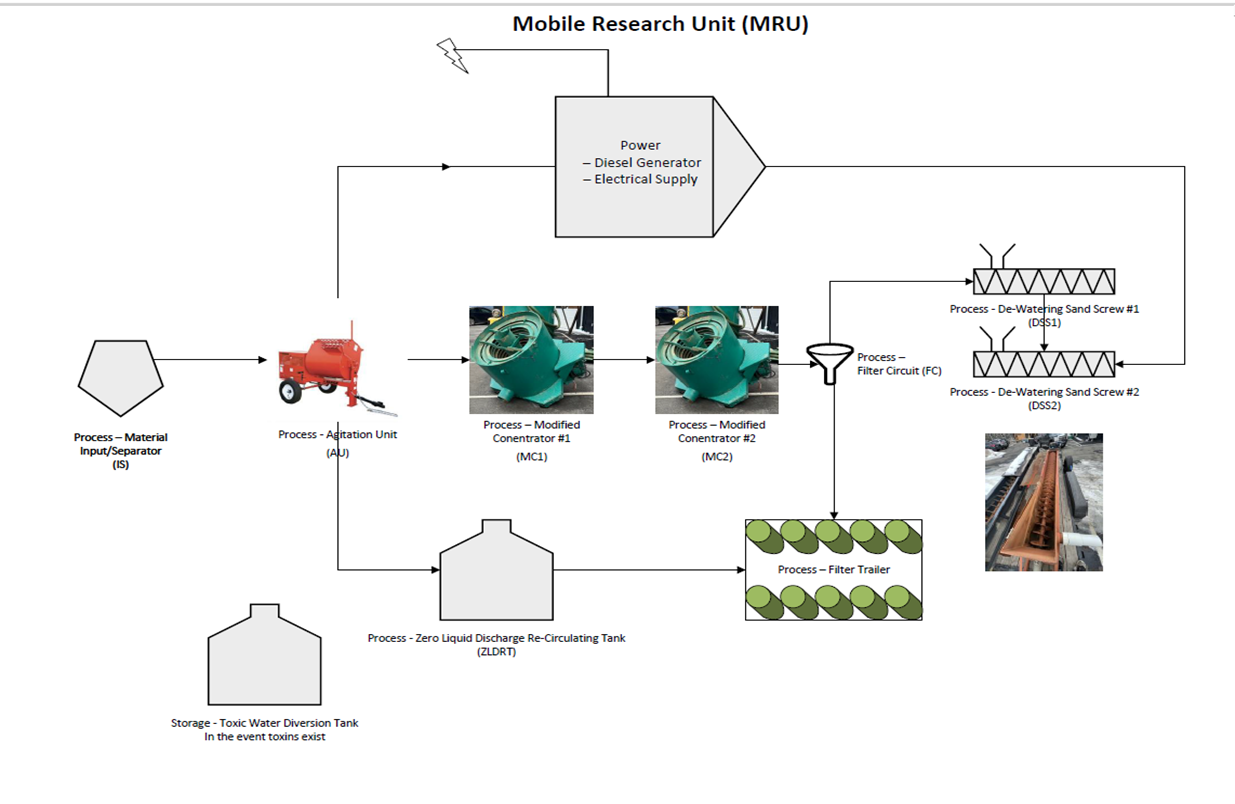
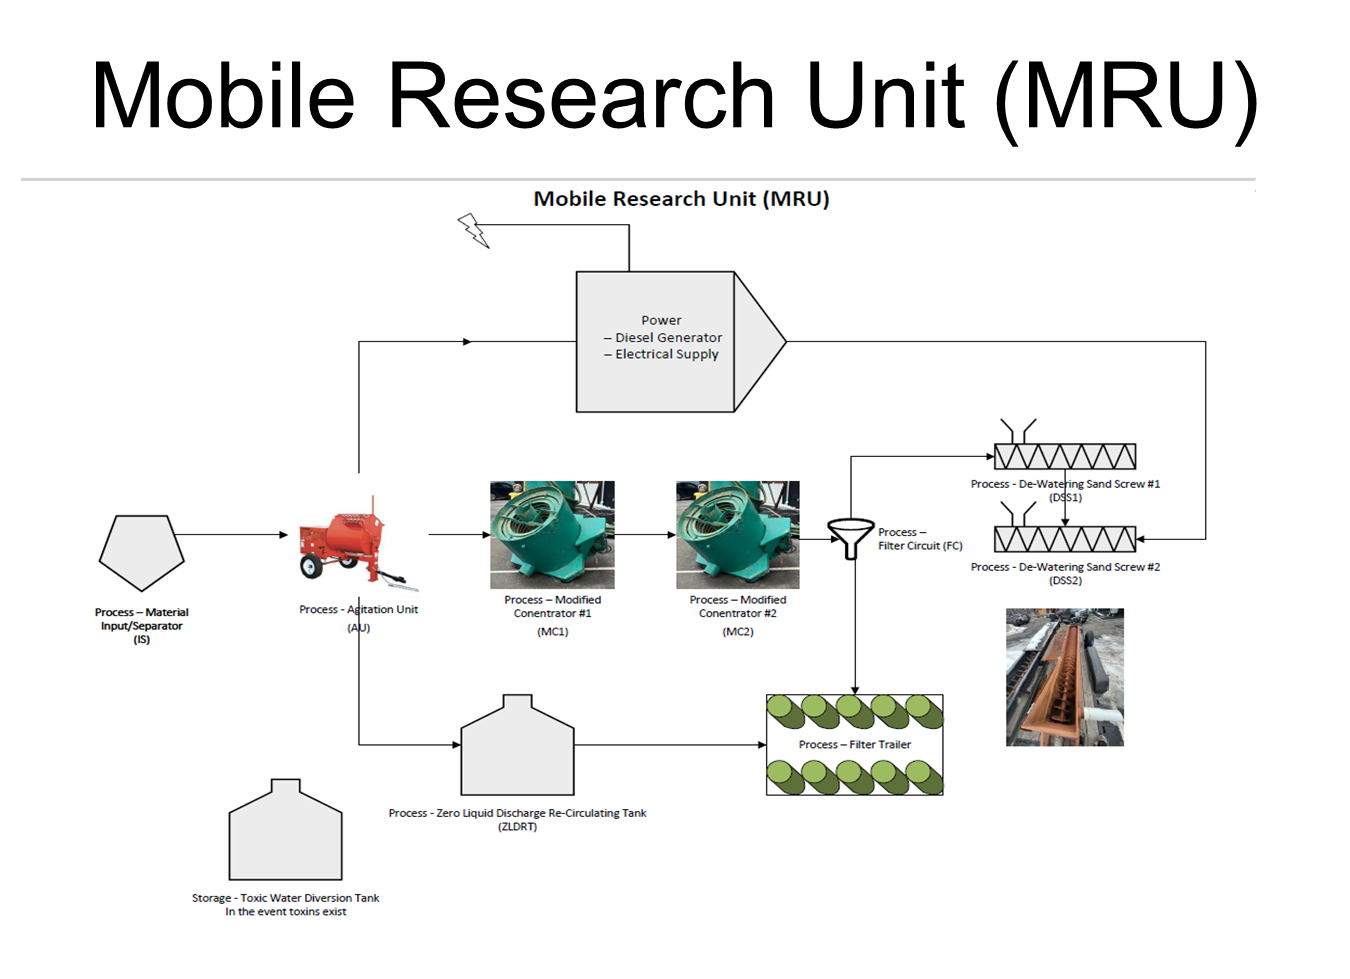
Changes

diff --git a/src/components/sections/TechnologySection.tsx b/src/components/sections/TechnologySection.tsx
@@ -3,6 +3,7 @@ import { Button } from "@/components/ui/button";
 import { FileText } from "lucide-react";
 import mruDiagram from "@/assets/mru-diagram.png";
 import mruMobileUnit from "@/assets/mru-mobile-unit.png";
+import mruNewUnit from "@/assets/mru-new-unit.png";
 
 const MRU_FEATURES = [
   "Zero-waste gold recovery",
@@ -34,8 +35,14 @@ export function TechnologySection() {
             </div>
 
             {/* Secondary Image */}
-            <div className="relative aspect-[4/3] bg-white rounded-lg overflow-hidden border border-border">
-              <img src={mruMobileUnit} alt="MineTeck Mobile Recovery Unit" className="w-full h-full object-contain" />
+            {/* Secondary Images */}
+            <div className="grid grid-cols-1 sm:grid-cols-2 gap-4">
+              <div className="relative aspect-[4/3] bg-white rounded-lg overflow-hidden border border-border">
+                <img src={mruMobileUnit} alt="MineTeck Mobile Recovery Unit" className="w-full h-full object-contain" />
+              </div>
+              <div className="relative aspect-[4/3] bg-white rounded-lg overflow-hidden border border-border">
+                <img src={mruNewUnit} alt="New Mobile Unit (MRU)" className="w-full h-full object-contain" />
+              </div>
             </div>
           </div>
 
